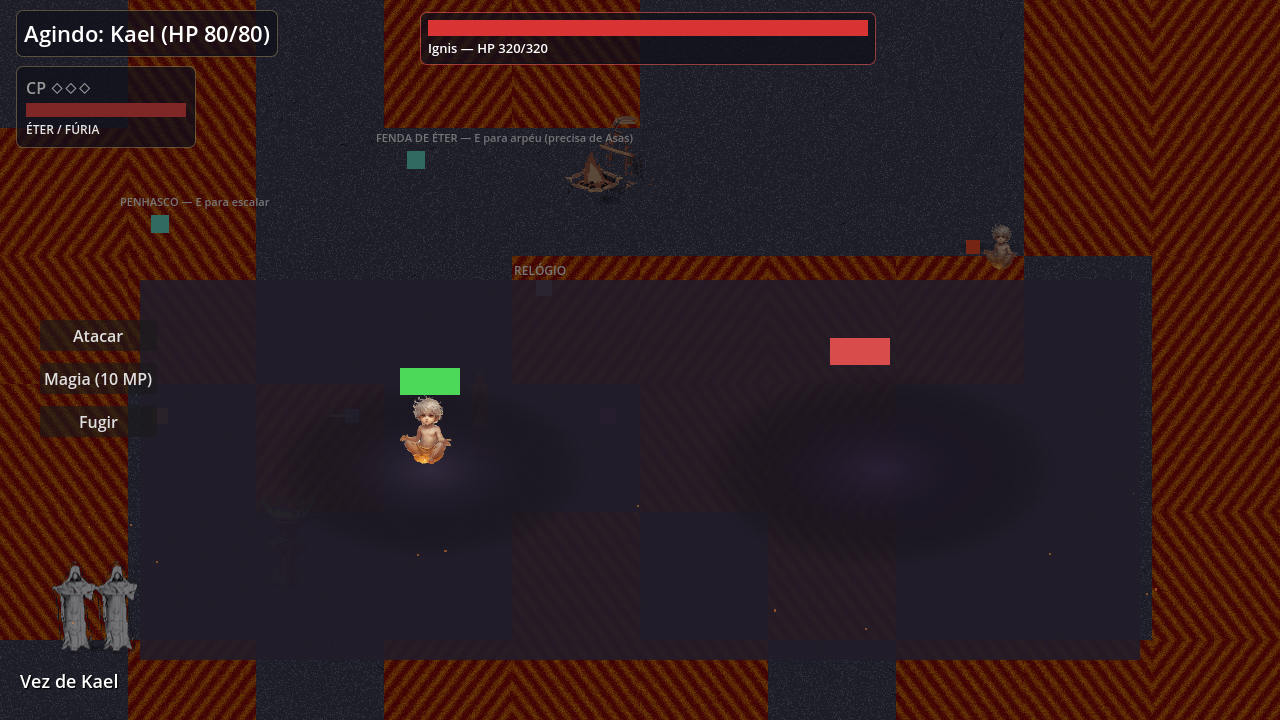
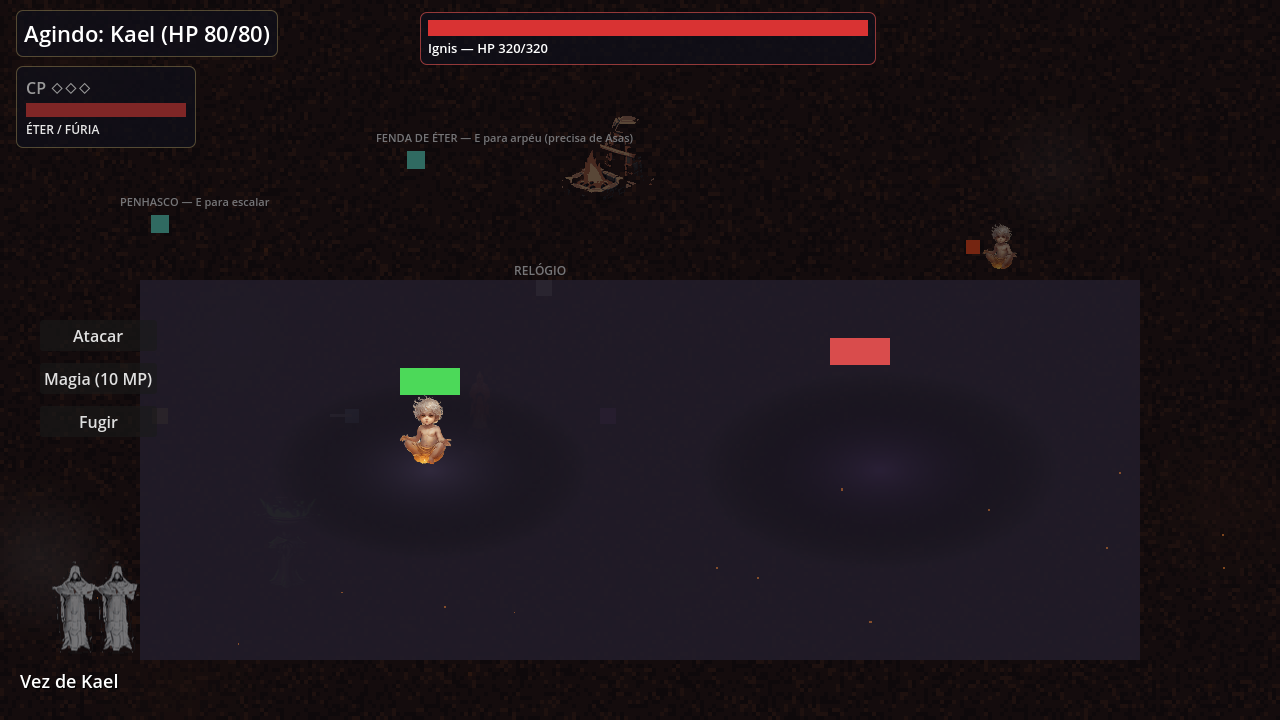
polish(background v2): canvas low-res único no lugar da grade de tiles - PixelArtRenderer.build_terrain_canvas (320x180 nearest x4): paleta da mesma família por terreno + blobs orgânicos + ruído por célula, zero emendas de grade; volcanic não existia em TERRAINS (caía no grass verde!) — _build_ash_c

diff --git a/tools/_check_terrains.py b/tools/_check_terrains.py
@@ -1,0 +1,7 @@
+import re
+
+text = open("scripts/pixel_art_renderer.gd", encoding="utf-8").read()
+keys = re.findall(r'^\s+"(\w+)": \{', text, re.M)
+print("TERRAINS keys:", [k for k in keys if k in ("grass", "water", "stone", "lava", "forest", "cave", "castle", "snow", "volcanic")])
+m = re.search(r'"volcanic": \{', text)
+print("tem 'volcanic' em TERRAINS:", bool(m))
